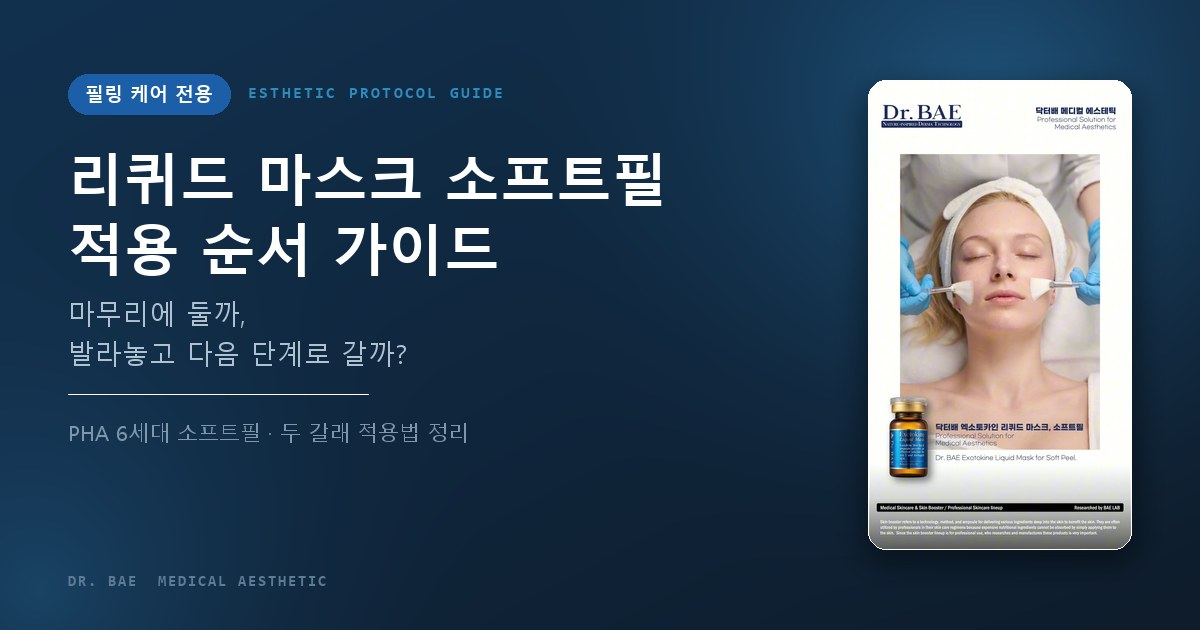
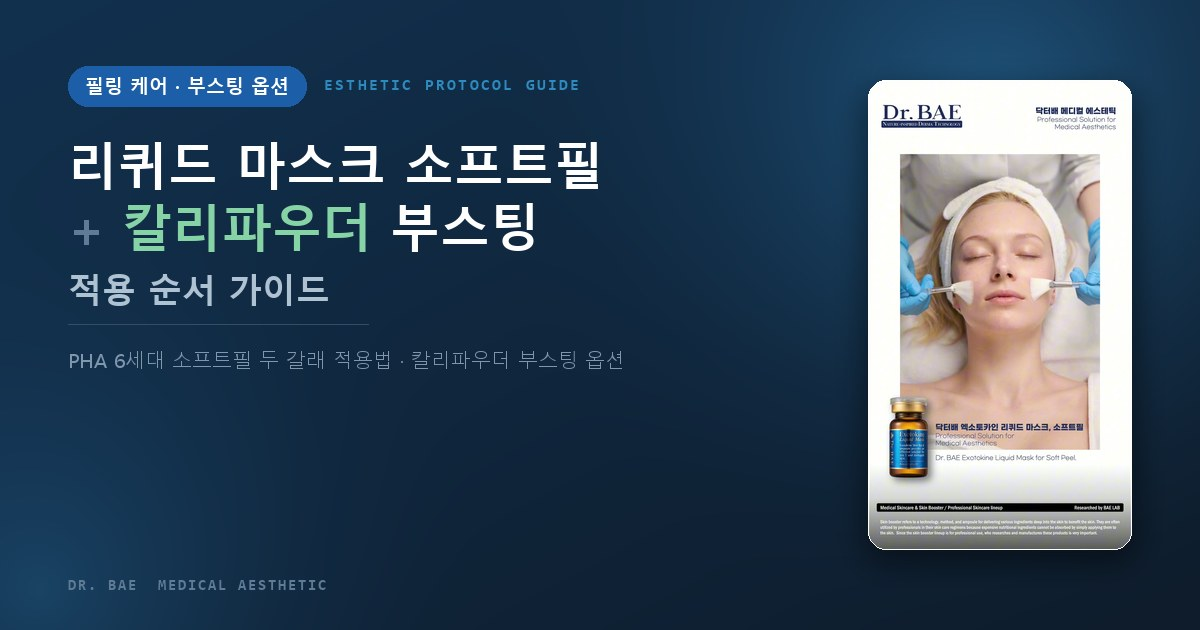
칼리파우더 부스팅 섹션 추가, 제목을 리퀴드마스크+칼리파우더로 변경
- 판단 기준과 안전 체크 사이에 칼리파우더 업셀링 카드 추가
  (포지셔닝 "피부장벽 칼슘 농도를 위한 동결건조 스킨부스터", 용해 슬롯 3종,
   리퀴드 마스크 용해 가능 안내, 단독 사용/에센스겔 혼합 금지)
- 카드 색은 칼리파우더 브랜드 그린 계열 사용. 원본 index.html의 골드/크림은
  이 페이지에서 주의 카드(amber-soft)와 배경색이 같아 경고와 혼동되므로 회피.
- 제목/OG 메타/h1/헤더 태그 및 OG 썸네일을 새 제목으로 갱신

diff --git a/liquidmask.html b/liquidmask.html
@@ -3,8 +3,8 @@
 <head>
 <meta charset="UTF-8">
 <meta name="viewport" content="width=device-width, initial-scale=1.0">
-<title>리퀴드 마스크 소프트필 — 적용 순서 가이드</title>
-<meta name="description" content="리퀴드 마스크 소프트필(PHA 6세대) 적용 순서 가이드 — 전처리로 쓸까, 씻어내지 않는 마무리로 쓸까">
+<title>리퀴드 마스크 소프트필 · 칼리파우더 — 적용 순서 가이드</title>
+<meta name="description" content="리퀴드 마스크 소프트필(PHA 6세대)의 두 갈래 적용법과 칼리파우더 부스팅 옵션 — 에스테틱 전문가용 적용 순서 가이드">
 <!-- 검색엔진 색인만 차단 (SNS 미리보기 크롤러는 통과시킴) -->
 <meta name="googlebot" content="noindex, nofollow">
 <meta name="bingbot" content="noindex, nofollow">
@@ -15,17 +15,17 @@
 <meta property="og:site_name" content="닥터배 메디컬 에스테틱">
 <meta property="og:locale" content="ko_KR">
 <meta property="og:url" content="https://baelab-create.github.io/drbae-guide/liquidmask">
-<meta property="og:title" content="리퀴드 마스크 소프트필 — 적용 순서 가이드">
-<meta property="og:description" content="마무리에 둘까, 발라놓고 다음 단계로 갈까? PHA 6세대 소프트필의 두 갈래 적용법 정리">
+<meta property="og:title" content="리퀴드 마스크 소프트필 · 칼리파우더 — 적용 순서 가이드">
+<meta property="og:description" content="마무리에 둘까, 발라놓고 다음 단계로 갈까? 소프트필 두 갈래 적용법과 칼리파우더 부스팅 옵션 정리">
 <meta property="og:image" content="https://baelab-create.github.io/drbae-guide/assets/og-liquidmask.jpg">
 <meta property="og:image:secure_url" content="https://baelab-create.github.io/drbae-guide/assets/og-liquidmask.jpg">
 <meta property="og:image:type" content="image/jpeg">
 <meta property="og:image:width" content="1200">
 <meta property="og:image:height" content="630">
-<meta property="og:image:alt" content="리퀴드 마스크 소프트필 적용 순서 가이드">
+<meta property="og:image:alt" content="리퀴드 마스크 소프트필 · 칼리파우더 적용 순서 가이드">
 <meta name="twitter:card" content="summary_large_image">
-<meta name="twitter:title" content="리퀴드 마스크 소프트필 — 적용 순서 가이드">
-<meta name="twitter:description" content="마무리에 둘까, 발라놓고 다음 단계로 갈까? PHA 6세대 소프트필의 두 갈래 적용법 정리">
+<meta name="twitter:title" content="리퀴드 마스크 소프트필 · 칼리파우더 — 적용 순서 가이드">
+<meta name="twitter:description" content="마무리에 둘까, 발라놓고 다음 단계로 갈까? 소프트필 두 갈래 적용법과 칼리파우더 부스팅 옵션 정리">
 <meta name="twitter:image" content="https://baelab-create.github.io/drbae-guide/assets/og-liquidmask.jpg">
 <link rel="preconnect" href="https://cdn.jsdelivr.net" crossorigin>
 <link rel="stylesheet" href="https://cdn.jsdelivr.net/gh/orioncactus/pretendard@v1.3.9/dist/web/static/pretendard.min.css">
@@ -83,7 +83,7 @@
     font-family:var(--mono);font-size:10px;letter-spacing:.22em;
     color:var(--blue-2);text-transform:uppercase;margin-bottom:10px;
   }
-  .head h1{font-size:21px;line-height:1.32;font-weight:700;letter-spacing:-.01em;}
+  .head h1{font-size:21px;line-height:1.32;font-weight:700;letter-spacing:-.01em;word-break:keep-all;}
   .head .sub{margin-top:8px;font-size:13px;color:#AEC2D2;font-weight:400;}
 
   /* 결론 배너 */
@@ -182,6 +182,31 @@
   .warn li::before{content:"";position:absolute;left:2px;top:11px;width:5px;height:5px;border-radius:50%;background:var(--amber);}
   .warn li b{color:var(--amber);font-weight:700;}
 
+  /* 칼리파우더 옵션 카드 */
+  .card.addon{background:#F2F7F3;border-color:#CFE1D5;}
+  .badge.kali{background:linear-gradient(135deg,#5F9B75,#3E6B4F);}
+  .card.addon .name{color:#2F5A41;}
+  .kali-pos{
+    font-size:12.5px;color:#2F5A41;font-weight:700;
+    background:#E3EFE7;border-radius:8px;padding:7px 10px;margin-bottom:11px;
+  }
+  .slots{display:flex;flex-wrap:wrap;gap:6px;margin-top:11px;}
+  .slots span{
+    font-size:11.5px;color:var(--ink-2);background:#fff;
+    border:1px solid #CFE1D5;border-radius:999px;padding:5px 11px;white-space:nowrap;
+  }
+  .slots b{color:#3E6B4F;font-weight:700;}
+  .kali-fit{
+    margin-top:11px;font-size:12px;color:#2F5A41;line-height:1.6;
+    background:#fff;border:1px dashed #B9D4C4;border-radius:8px;padding:9px 10px;
+  }
+  .kali-fit b{font-weight:700;}
+  .kali-note{
+    margin-top:10px;font-size:11.5px;color:#5A6B60;line-height:1.62;
+    border-top:1px solid #CFE1D5;padding-top:9px;
+  }
+  .kali-note b{color:#2F5A41;font-weight:700;}
+
   /* 푸터 */
   .foot{
     margin-top:18px;border-top:1px solid var(--line);padding-top:13px;
@@ -215,8 +240,8 @@
   </div>
 
   <header class="head">
-    <div class="htags"><span class="tag-peel">필링 케어 전용</span><span class="eyebrow-in">Esthetic Protocol Guide</span></div>
-    <h1>리퀴드 마스크 소프트필<br>적용 순서 가이드</h1>
+    <div class="htags"><span class="tag-peel">필링 케어 · 부스팅 옵션</span><span class="eyebrow-in">Esthetic Protocol Guide</span></div>
+    <h1>리퀴드 마스크 소프트필 · 칼리파우더<br>적용 순서 가이드</h1>
     <div class="sub">마무리에 둘까, 발라놓고 다음 단계로 갈까?</div>
 
     <div class="verdict">
@@ -311,6 +336,30 @@
       <span class="arrow">→</span>
       <span class="pick">앞 짧게 + 진정 마무리</span>
     </div>
+  </section>
+
+  <div class="branch"><span>함께 쓰는 업셀링 옵션</span></div>
+
+  <!-- 칼리파우더 -->
+  <section class="card addon">
+    <div class="card-h">
+      <div class="badge kali">
+        <svg width="18" height="18" viewBox="0 0 24 24" fill="none" stroke="currentColor" stroke-width="2" stroke-linecap="round" stroke-linejoin="round"><path d="M10 2v7.31"/><path d="M14 9.3V1.99"/><path d="M8.5 2h7"/><path d="M14 9.3a6.5 6.5 0 1 1-4 0"/><path d="M5.52 16h12.96"/></svg>
+      </div>
+      <div>
+        <div class="role">+ Option · 업셀링</div>
+        <div class="name">칼리파우더 부스팅</div>
+      </div>
+    </div>
+    <div class="kali-pos">피부장벽 칼슘 농도를 위한 동결건조 스킨부스터</div>
+    <div class="why">칼리파우더는 관리 다양성을 위한 <b>믹스인 옵션</b>입니다. 원하는 단계의 앰플에 섞어 관리의 농도를 한 단계 올리고, 기본 프로그램을 프리미엄 구성으로 업셀링할 수 있습니다.</div>
+    <div class="slots">
+      <span>3단계 부스팅 — <b>블루</b>에 용해</span>
+      <span>4단계 진정팩 — <b>핑크</b>에 용해</span>
+      <span>5단계 쿨링 — <b>토코포르테</b>에 용해</span>
+    </div>
+    <div class="kali-fit"><b>리퀴드 마스크에도 용해 가능</b> — 위 Route A · B 어느 쪽을 택하든 소프트필 단계에 함께 구성할 수 있습니다.</div>
+    <div class="kali-note">단독 사용 금지 · <b>에센스겔과 직접 혼합만 금지</b> — 용해는 블루 · 핑크 · 토코포르테 · 리퀴드 마스크 · 블랙 5종에 가능.</div>
   </section>
 
   <!-- 주의 -->
